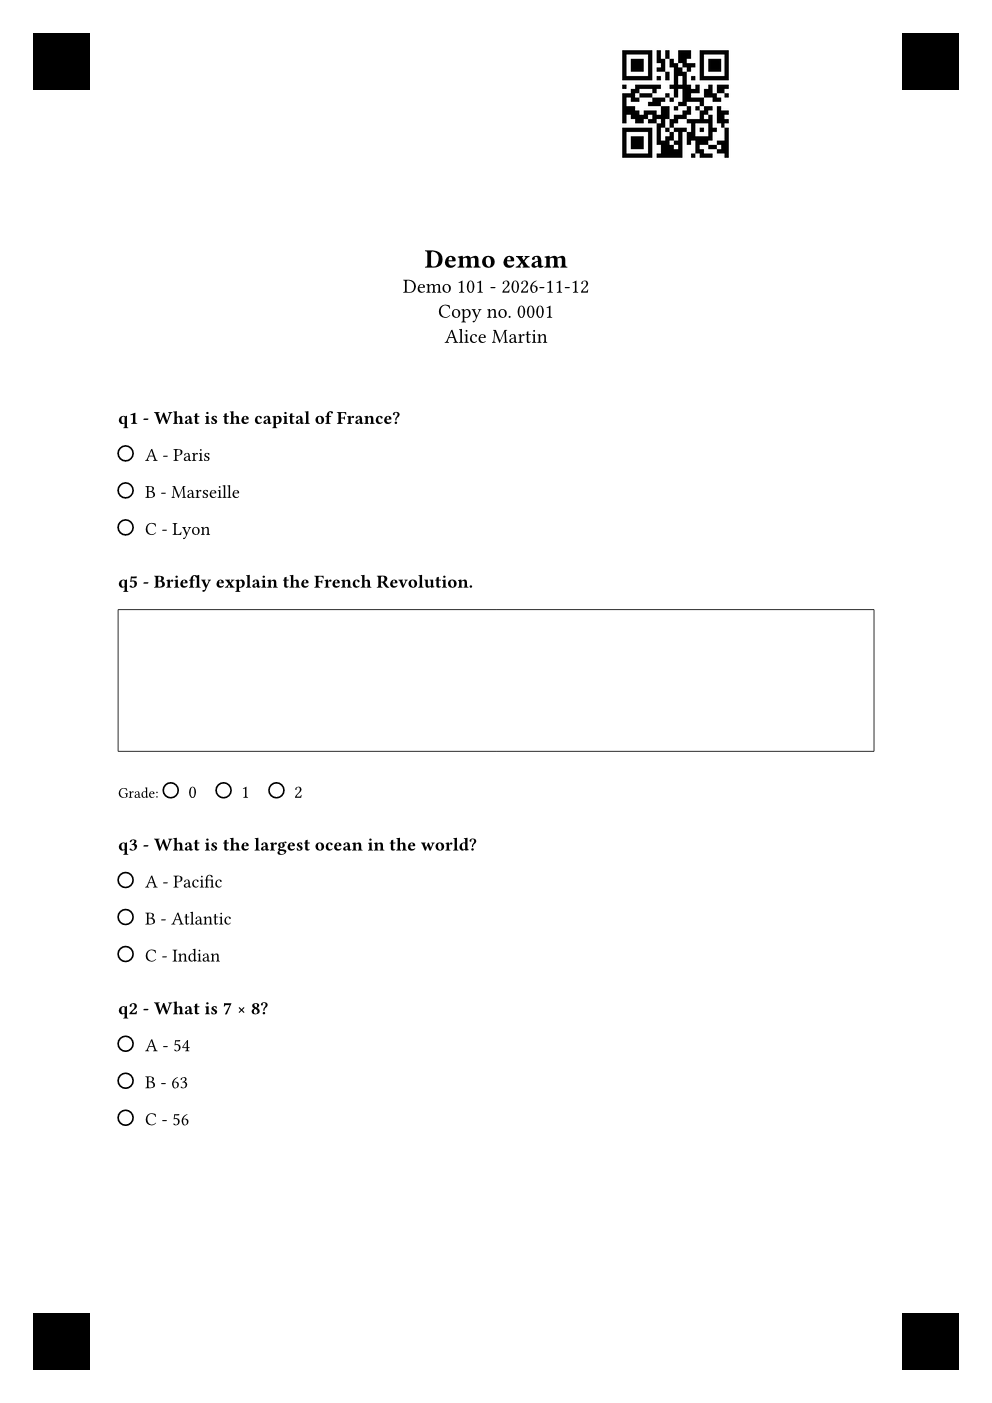
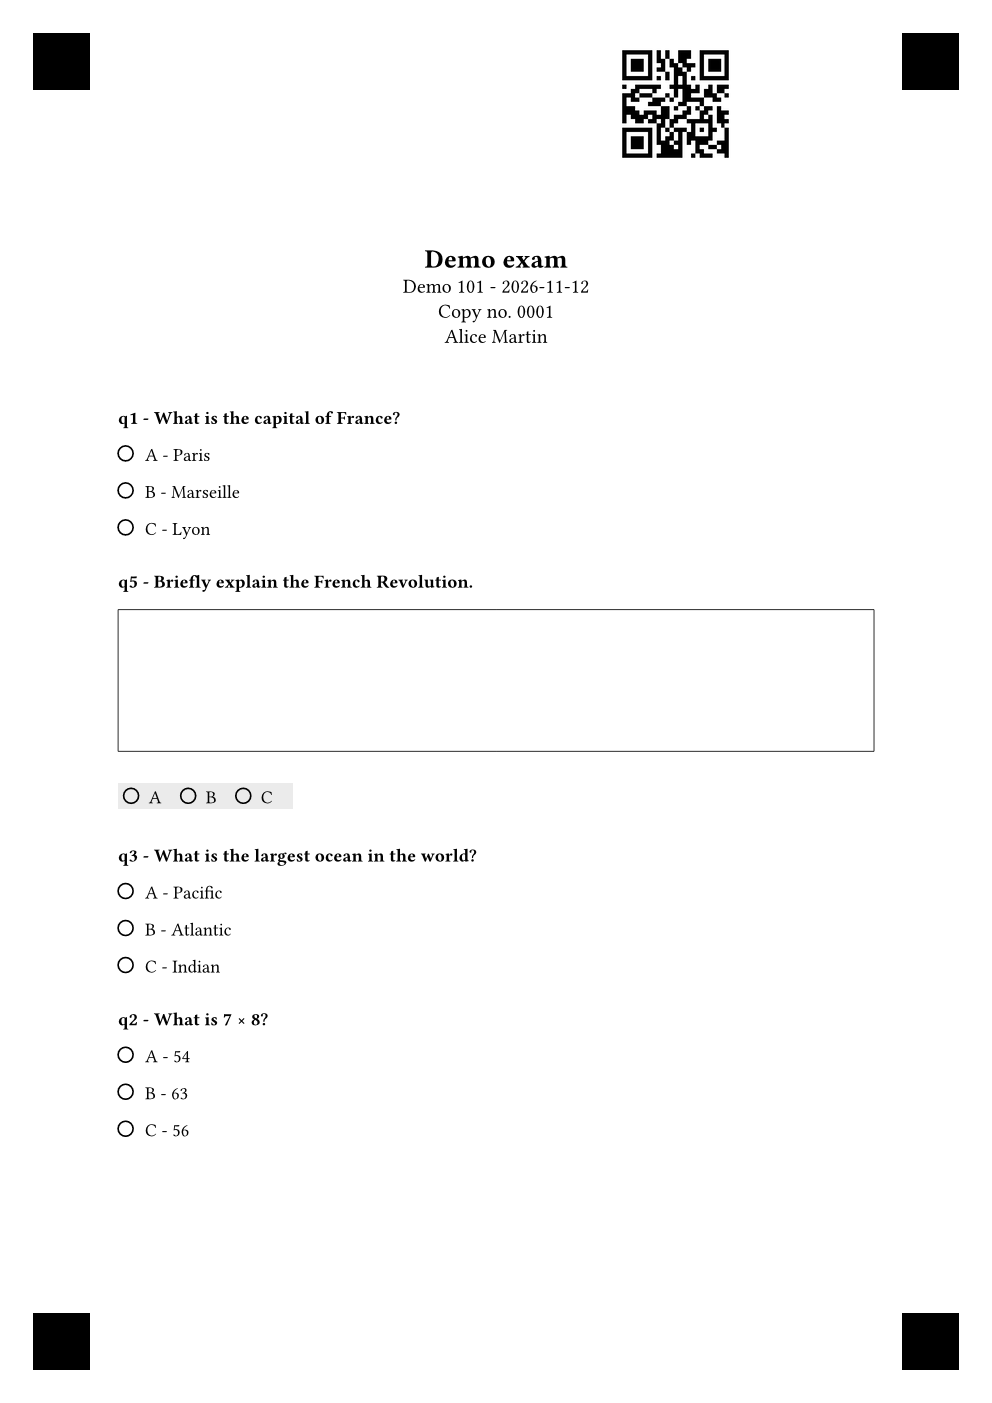
Template: gray grader area (AMC-style) with lettered grade boxes, no Grade label
Open-question grade boxes sit in a luma(235) box, distinct from student
bubbles; labels are letters A,B,C… (value = index, still in #metadata for
the OMR); 'Grade:' text removed. Docs + preview image regenerated.

Generated by Mistral Vibe.

Changed region(s): [[0.125, 0.5517, 0.5, 0.8275]]

diff --git a/CHANGELOG.md b/CHANGELOG.md
@@ -10,6 +10,7 @@
 - Workflow clarified: open questions are graded ON PAPER before scanning (the grader blackens one grade box `0..max_points` = a fraction of the max per open question; the OMR reads it, ungraded → `needs_review`); the review UI is for doubtful cases and overrides. Updated: README pipeline (manual-grading step moved between the exam and the scan) + Features, `quickstart.md`, `runbook.md` (new "Manual grading (on paper)" section), `SCOPE.md`.
 - Sources aligned with "review UI = doubtful cases only": `list_copies` docstring states only non-`ok` copies need review (corrections stay possible as overrides); stale "not graded yet" wording in `read_bubbles` → "not blackened on paper". README Mermaid manual-grading node label shortened.
 - Docs: the README is embedded in the Sphinx homepage again (`index.md` includes it; the `readme.md` sub-page tried in between is removed).
+- Template: open-question grade boxes are now in a gray grader area (AMC-style, visually distinct from the student bubbles), the "Grade:" label is removed, and boxes are labeled with letters A, B, C… instead of numbers (value = letter index, kept in the `#metadata` for the OMR). Docs updated (quickstart/runbook/SCOPE/README), preview image regenerated.
 - New subcommand `mini-amc init [DIR] [--force]` (`mini_amc.scaffold`): copies the example files (`bank.example.yml`, `students.example.csv`, `students.moodle.example.csv`, `runbook.md`) into an exam project dir, without overwriting unless `--force`. The examples moved from the repo root to `src/mini_amc/examples/` (packaged via `[tool.setuptools.package-data]`) so `init` works from an installed wheel; docs include them with `literalinclude` + GitHub links, `docs/source/runbook.md` includes the packaged runbook, SCOPE paths updated. Tests: `tests/test_scaffold.py` (3), help test lists `init`.
 - CLI: `mini-amc omr` no longer exposes JSON file names (`--positions`/`--out`/`--annotated` removed) — it takes `--data DIR` (default `./data`) and derives `positions.json`, `omr_results.json`, `annotated/` from it, like the other subcommands; `--scans` (default `./scans`) stays. Subcommand parsers now set `prog="mini-amc <cmd>"` so `-h` shows `usage: mini-amc omr …`. Tests updated.
 - Template: with `--students`, the student name is printed in the copy header (guarded by `copy.at("student", default: none)`); the quickstart preview image regenerated from `bank.example.yml` + `students.example.csv` (copy 0001 « Alice Martin », page 1).

diff --git a/docs/source/quickstart.md b/docs/source/quickstart.md
@@ -75,7 +75,7 @@ Produces in `data/`:
 
 Generation is staged: on failure, `data/` is left untouched.
 
-Preview of the example copy (`bank.example.yml`, `students.example.csv`, copy `0001` « Alice Martin », seed 42 — corner squares, per-page QR code top right, student name in the header, MCQ bubbles, open-question grade boxes):
+Preview of the example copy (`bank.example.yml`, `students.example.csv`, copy `0001` « Alice Martin », seed 42 — corner squares, per-page QR code top right, student name in the header, MCQ bubbles, gray grader area with lettered grade boxes A/B/C for the open question):
 
 ```{figure} _static/copy.example.png
 :alt: Example exam copy page generated from bank.example.yml with a fictitious student name
@@ -95,7 +95,7 @@ but a doubtful reading is only flagged `needs_review` for manual review,
 never silently misread.
 ```
 - Students check ONE box per MCQ; open questions are left blank during the exam.
-- After the exam, **before scanning**: the teacher blackens ONE grade box per open question on each paper copy (boxes `0..max_points`, each box = a fraction of the max score).
+- After the exam, **before scanning**: the teacher blackens ONE lettered grade box per open question in the gray grader area (A = 0 pt, B = 1 pt, … up to `max_points`).
 
 ## 5. Scan the copies
 

diff --git a/SCOPE.md b/SCOPE.md
@@ -8,7 +8,7 @@ The whole project is in English: code, docstrings, comments, documentation, CLI 
 Included:
 
 - Single-answer MCQ.
-- Open (free-text) questions graded by the teacher on the paper copy, before scanning: the copy shows a free area + grade boxes `0..max_points` (each box = a fraction of the max); the OMR reads the blackened box and the score is its value; ungraded (no box) → `needs_review`, still correctable in the review UI.
+- Open (free-text) questions graded by the teacher on the paper copy, before scanning: the copy shows a free area + a gray grader area with lettered grade boxes A, B, … (box value = letter index, 0..max_points); the OMR reads the blackened box and the score is its value; ungraded (no box) → `needs_review`, still correctable in the review UI.
 - v1 grading scheme: 1 point per correct MCQ answer, 0 otherwise, no negative points; open questions score 0..max_points.
 - Personalized PDF copy generation (question and choice shuffling, seeded and reproducible).
 - Self-contained Typst template: bubbles to check directly under each question, 4 black alignment squares in the corners of every page, 1 QR code at the top right of every page.

diff --git a/README.md b/README.md
@@ -12,7 +12,7 @@ A mini-clone of Auto-Multiple-Choice (AMC) based on [Typst](https://typst.app). 
 ## Features
 
 - **Everything is 100% local**: exam papers, student scans and grades never leave your machine — no cloud, no account, no upload
-- **Write the exam once** as a YAML question bank: single-answer MCQ + open questions you grade on the paper copy (blacken one box = a fraction of the max score)
+- **Write the exam once** as a YAML question bank: single-answer MCQ + open questions you grade on the paper copy (blacken one lettered box in the gray grader area = a fraction of the max score)
 - **Print one personalized PDF copy per student** (questions and choices shuffled differently on each copy)
 - **Scan the returned copies**: answers are **read automatically (OMR)**, doubtful or ambiguous cases are flagged for review
 - **Review doubtful copies** in a local web UI and correct them there, with the annotated scan next to the detected answers (also overrides a misread grade box)

diff --git a/src/mini_amc/examples/runbook.md b/src/mini_amc/examples/runbook.md
@@ -30,7 +30,7 @@
 
 ## Manual grading (on paper, before scanning)
 
-- [ ] for each open question of each copy, blacken ONE grade box (`0..max_points`): each box is a fraction of the max score
+- [ ] for each open question of each copy, blacken ONE lettered grade box in the gray grader area (A = 0 pt, B = 1 pt, … up to `max_points`)
 - [ ] an open question left ungraded will show `needs_review` after the OMR (still correctable in the review UI)
 
 ## Scanning
